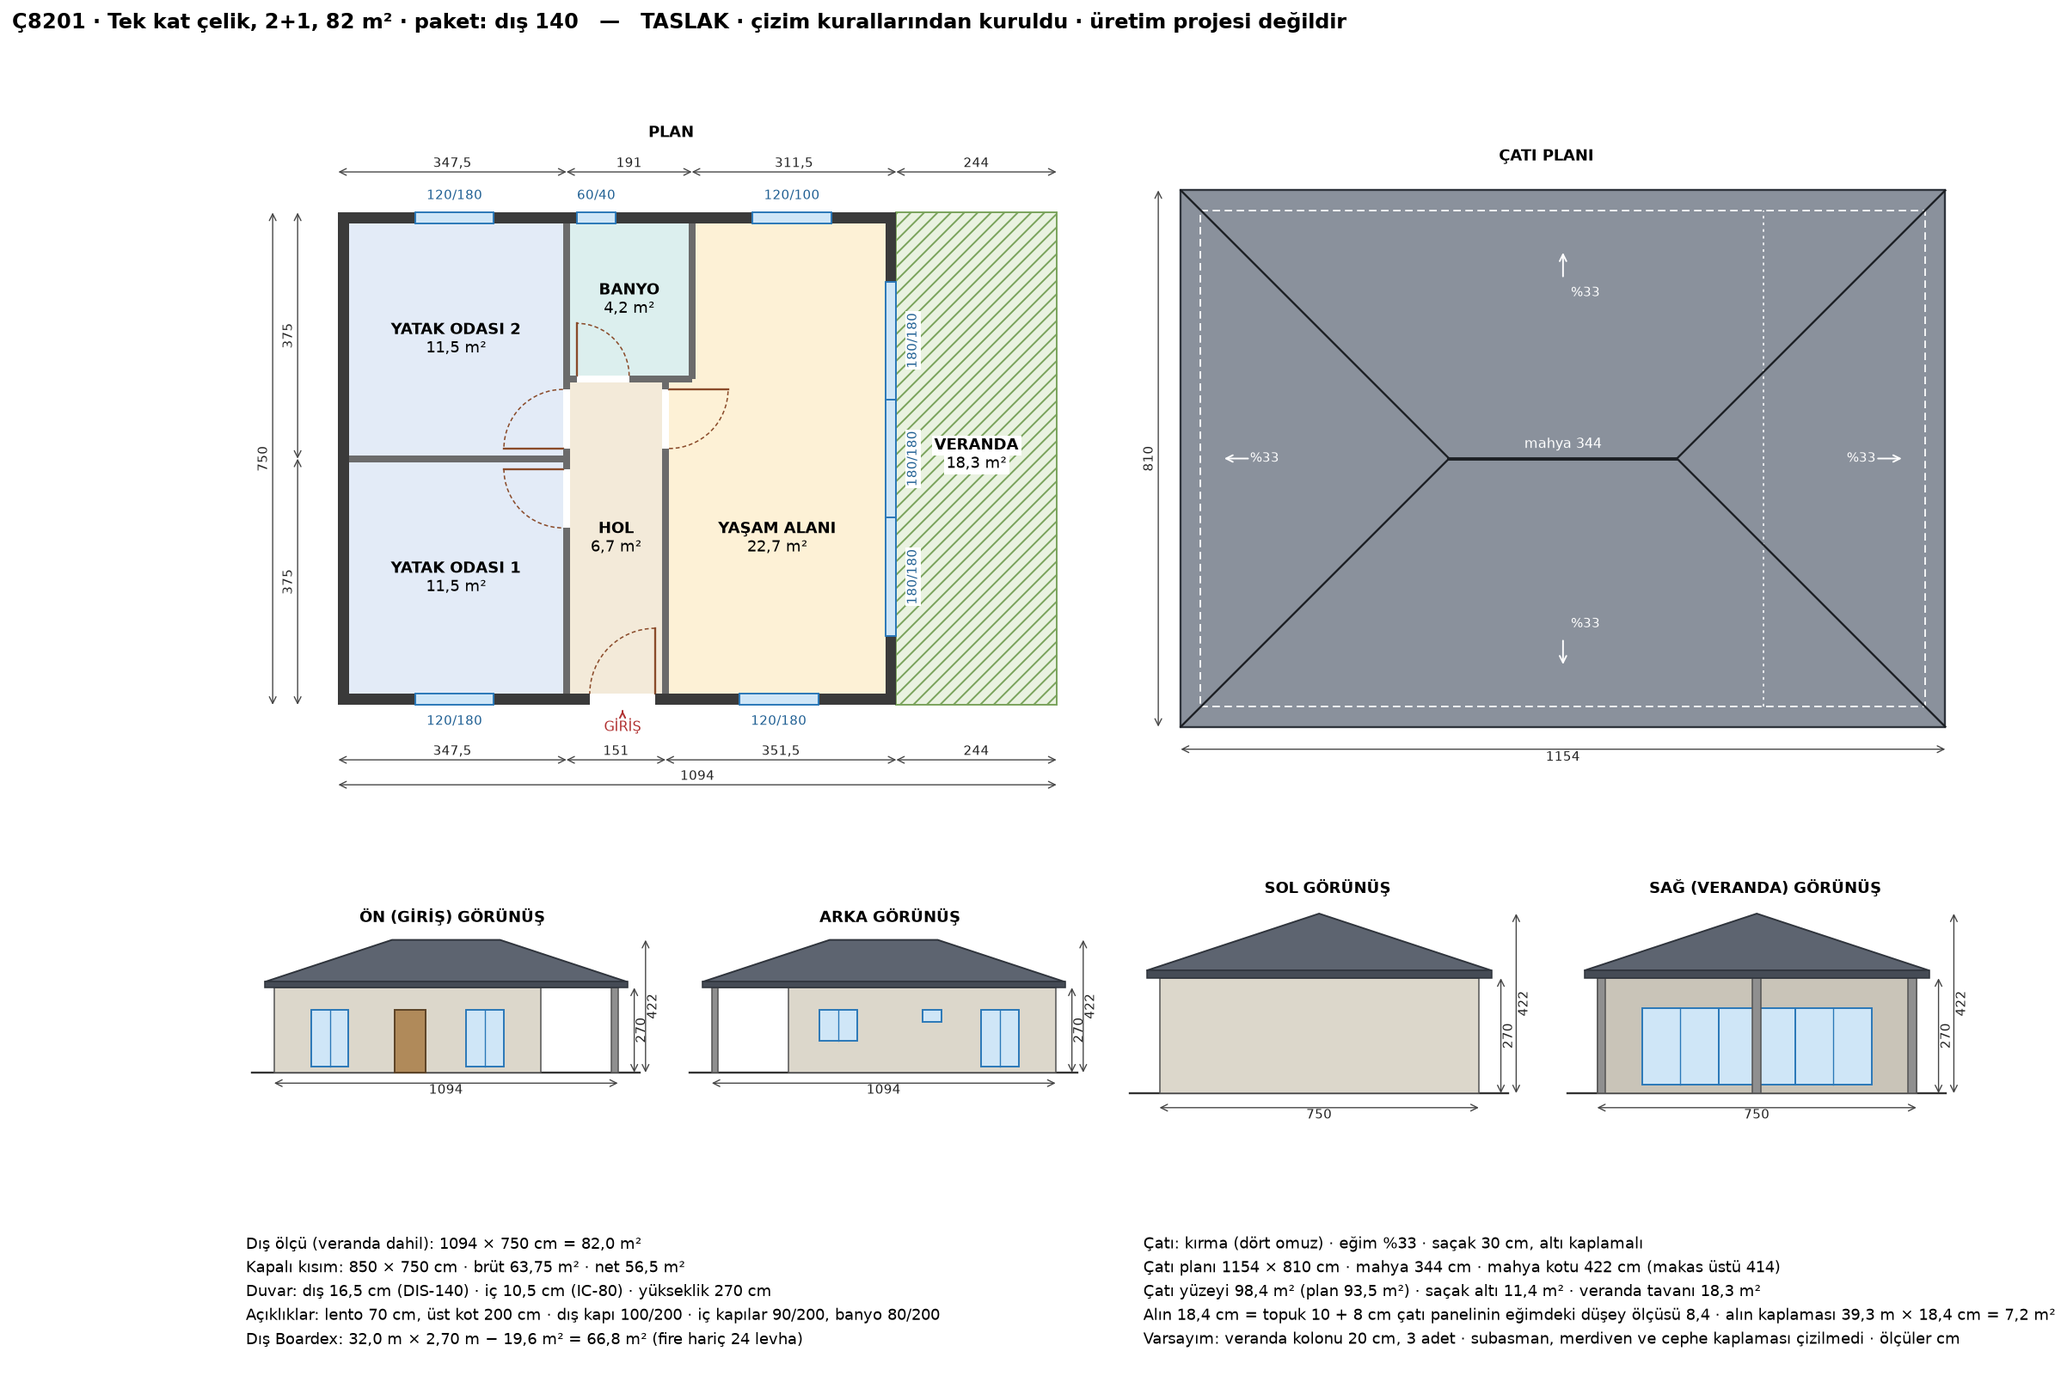
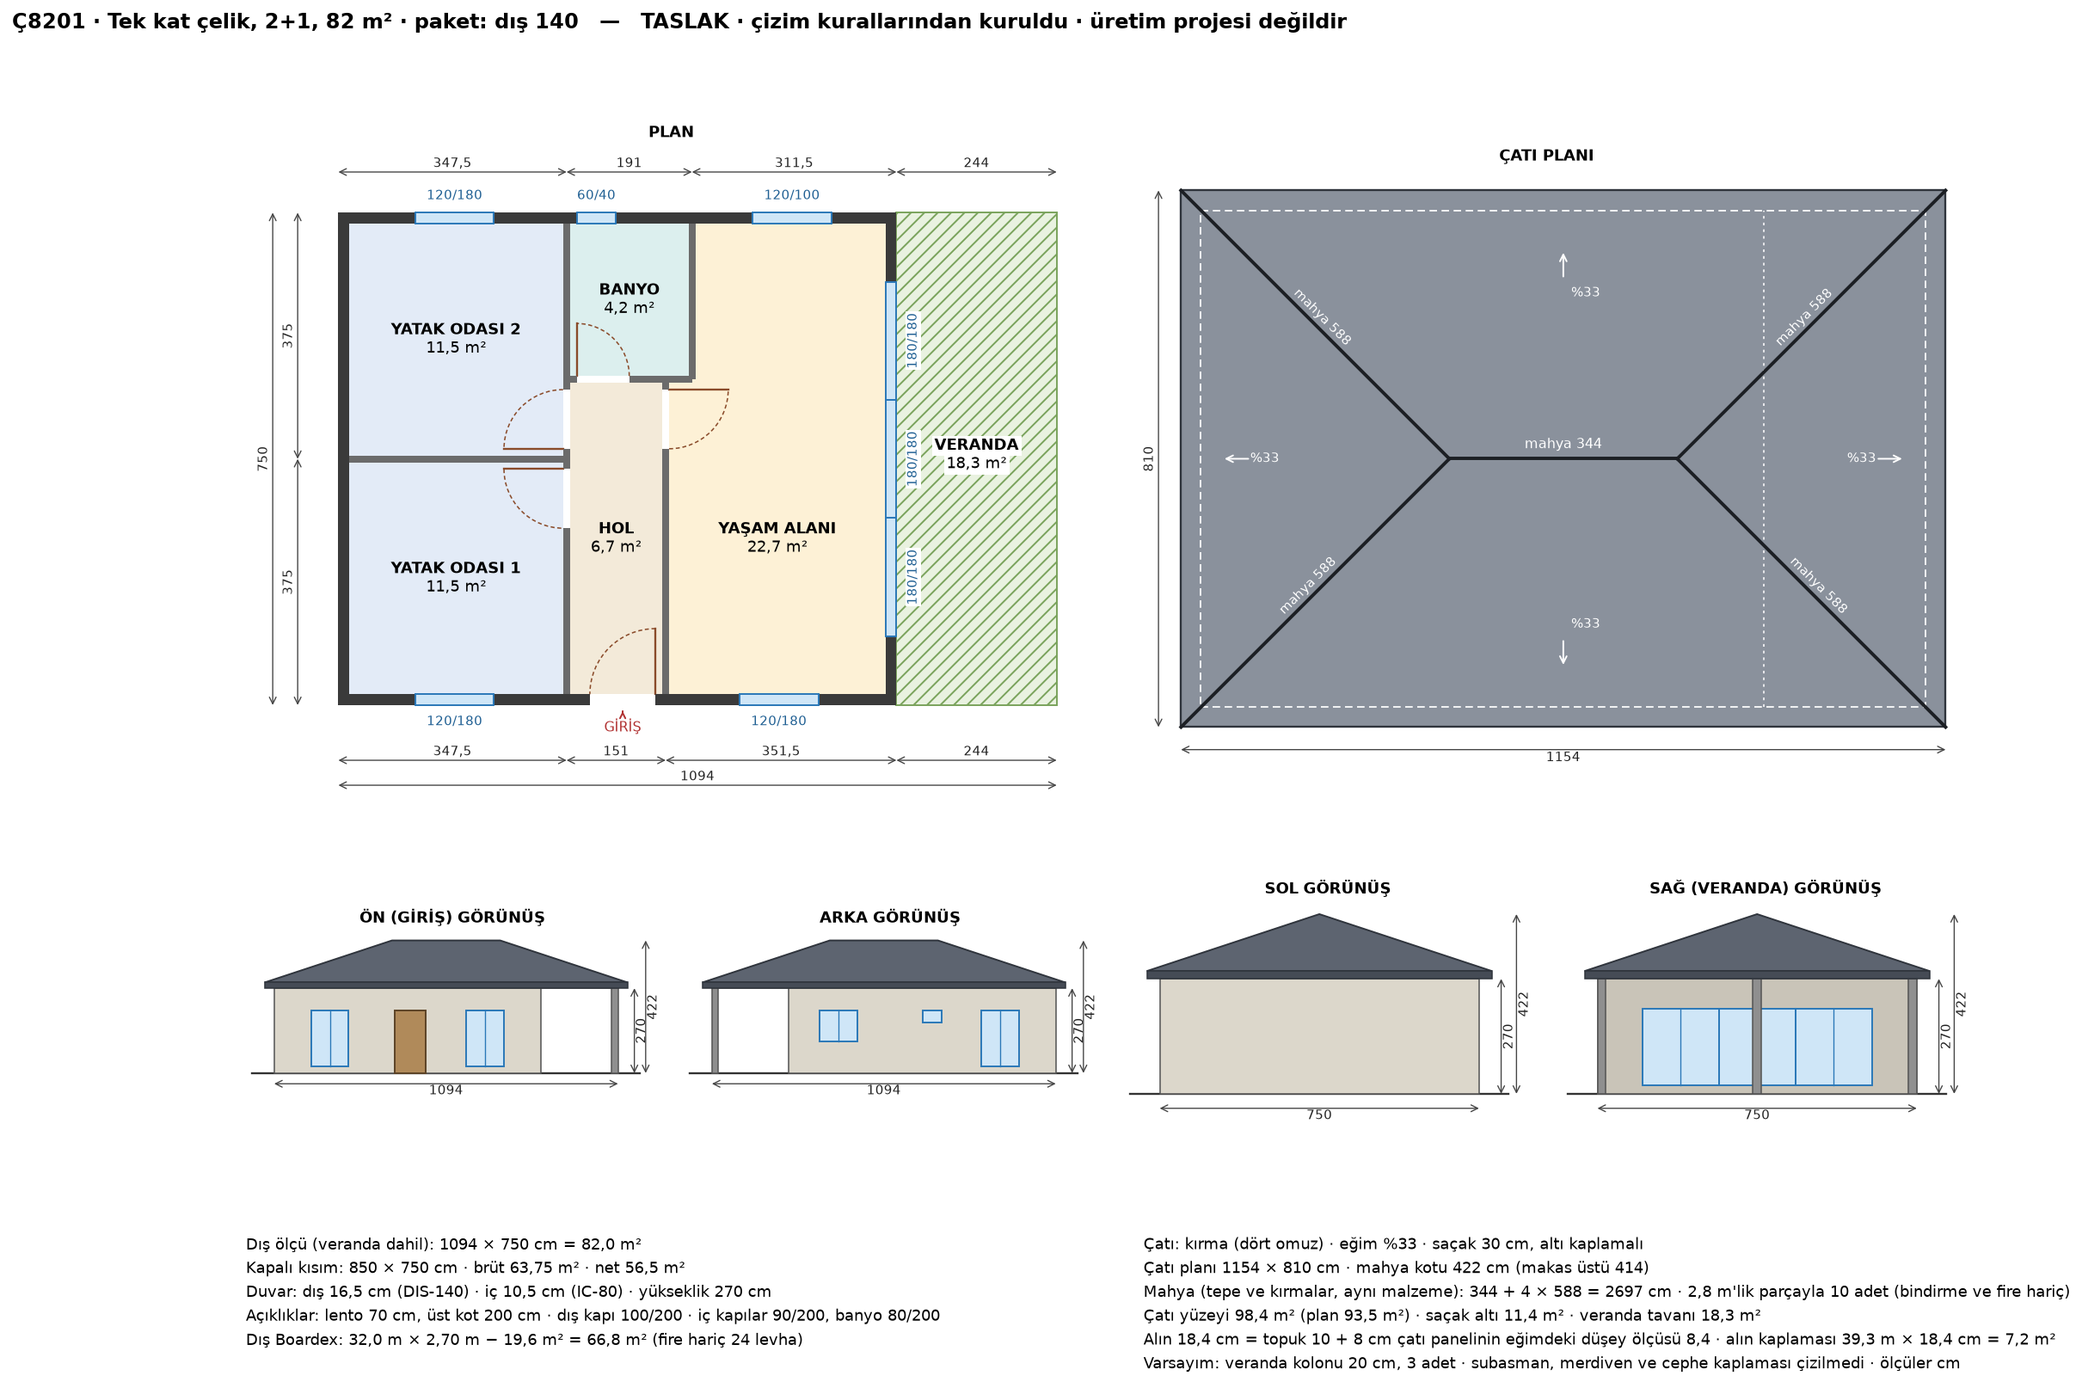
İE-05: mahya malzemesi kırmalara da konur (Lokman, 3 Ekim 11:57); Ç8201 mahya hattı 2697 cm
- gorunus.py: kırma boyu ve mahya hattı hesabı; çatı planında kırmalar mahya olarak çizilir ve etiketlenir.
- Ç8201: tepe 344 + 4 kırma x 588 = 2697 cm; 2,8 m'lik parçayla bindirme ve fire hariç 10 adet
  (parça boyu 90 m2 projenin yükleme listesinden). Baz ve dış 140 paftaları yenilendi.
- cati.md, modeller/C8201.md, deneme README ve DURUM güncellendi. Canlıya ve canlı koda dokunulmadı.

Claude-Session: https://claude.ai/code/session_01HPSBoQGTn4Q4gkz3xSnyCS

diff --git a/deneme/2026-10-02_celik/gorunus.py b/deneme/2026-10-02_celik/gorunus.py
@@ -8,6 +8,7 @@ mahya ortada kalan kısımdır; saçak 30 cm, altı kaplamalı. Lento her zaman 
 Topuk 10 cm: makasın üst yüzü saçak ucunda duvar üst kotundan 10 cm yukarıdadır; saçak altı duvar üst kotundadır
 (üç çelik SKP modelinden ölçüldü, `docs/sartname/skp_olcumleri.md`; Lokman 2 Ekim 22:05'te teyit etti).
 Makasların üzerine 8 cm çatı paneli gelir; alın (saçak kaplaması) = topuk + panelin eğimdeki düşey ölçüsü (Lokman, 22:05).
+Mahya malzemesi tepe mahyasına ve dört kırma hattına konur; aynı malzeme (Lokman, 3 Ekim 11:57).
 Veranda kolonunun kenarı (20 cm) varsayımdır.
 
 Kullanım:
@@ -60,6 +61,11 @@ def cati_hesapla(tanim: dict) -> dict:
     z_mahya = z_makas_mahya + panel_dusey                        # çatı üst yüzü, mahyada
     alin = z_sacak - h                                           # alın (saçak kaplaması) yüksekliği = topuk + panelin düşey ölçüsü
     cevre = 2 * (px + py)                                        # saçak ucu çevresi
+    # Mahya malzemesi tepeye ve dört kırma hattına konur (Lokman, 3 Ekim 11:57). Kırma: saçak köşesinden mahya ucuna.
+    kirma_plan = (kisa / 2) * math.sqrt(2)                       # plandaki boy (45°)
+    kirma = math.hypot(kirma_plan, (kisa / 2) * e)               # eğimli gerçek boy
+    mahya_hatti = (uzun - kisa) + 4 * kirma
+    parca = c.get("mahya_parca_boyu")
     plan_m2 = px * py / 1e4
     return {
         "ayak_izi": (L, H), "plan": (px, py), "mahya_uzunlugu": uzun - kisa, "mahya_yonu": "x" if px >= py else "y",
@@ -68,6 +74,8 @@ def cati_hesapla(tanim: dict) -> dict:
         "sacak": s, "egim": e, "z_sacak_alti": h,
         "z_makas_sacak": z_makas_sacak, "z_makas_mahya": z_makas_mahya, "panel_kalinligi": panel, "panel_dusey": panel_dusey,
         "alin_yuksekligi": alin, "alin_gonye_kesimde": topuk + panel / kok, "alin_cevre_m": cevre / 100, "alin_m2": cevre * alin / 1e4,
+        "kirma_adedi": 4, "kirma_plan_boyu": kirma_plan, "kirma_boyu": kirma, "mahya_hatti_toplam": mahya_hatti,
+        "mahya_parca_boyu": parca, "mahya_parca_adedi_bindirmesiz": math.ceil(mahya_hatti / parca - 1e-9) if parca else None,
     }
 
 
@@ -163,7 +171,14 @@ def cati_plani_eksen(ax, tanim: dict, c: dict):
     ax.plot([m1[0], m2[0]], [m1[1], m2[1]], color="#1c1f24", lw=2.0, zorder=3)
     for kx, ky in kose:
         hedef = m1 if (kx < L / 2 if c["mahya_yonu"] == "x" else ky < H / 2) else m2
-        ax.plot([kx, hedef[0]], [ky, hedef[1]], color="#1c1f24", lw=1.2, zorder=3)
+        ax.plot([kx, hedef[0]], [ky, hedef[1]], color="#1c1f24", lw=2.0, zorder=3)   # kırma: mahya ile aynı malzeme
+        aci = math.degrees(math.atan2(hedef[1] - ky, hedef[0] - kx))
+        if aci > 90 or aci < -90:
+            aci += 180
+        ox, oy = (kx + hedef[0]) / 2, (ky + hedef[1]) / 2
+        nx, ny = -math.sin(math.radians(aci)), math.cos(math.radians(aci))
+        ax.text(ox + nx * 15, oy + ny * 15, f"mahya {tr(c['kirma_boyu'], 0)}", ha="center", va="center", fontsize=7.5, color="white",
+                rotation=aci, rotation_mode="anchor", zorder=4)
     ax.add_patch(Rectangle((0, 0), L, H, fill=False, ec="white", lw=0.9, ls=(0, (5, 3)), zorder=2))   # duvar dış yüzü
     ax.plot([W, W], [0, H], color="white", lw=0.8, ls=(0, (2, 3)), zorder=2)
     ax.text((m1[0] + m2[0]) / 2, m1[1] + 16, f"mahya {tr(c['mahya_uzunlugu']).replace(',0', '')}", ha="center", fontsize=8, color="white", zorder=4)
@@ -202,7 +217,9 @@ def pafta(tanim: dict, s: dict, c: dict, cikti: Path):
     ]
     sag = [
         f"Çatı: kırma (dört omuz) · eğim %{ct['egim_yuzde']} · saçak {ct['sacak']} cm, altı kaplamalı",
-        f"Çatı planı {tr(c['plan'][0]).replace(',0', '')} × {tr(c['plan'][1]).replace(',0', '')} cm · mahya {tr(c['mahya_uzunlugu']).replace(',0', '')} cm · mahya kotu {tr(c['z_mahya'], 0)} cm (makas üstü {tr(c['z_makas_mahya'], 0)})",
+        f"Çatı planı {tr(c['plan'][0]).replace(',0', '')} × {tr(c['plan'][1]).replace(',0', '')} cm · mahya kotu {tr(c['z_mahya'], 0)} cm (makas üstü {tr(c['z_makas_mahya'], 0)})",
+        f"Mahya (tepe ve kırmalar, aynı malzeme): {tr(c['mahya_uzunlugu']).replace(',0', '')} + {c['kirma_adedi']} × {tr(c['kirma_boyu'], 0)} = {tr(c['mahya_hatti_toplam'], 0)} cm"
+        + (f" · {tr(c['mahya_parca_boyu'] / 100)} m'lik parçayla {c['mahya_parca_adedi_bindirmesiz']} adet (bindirme ve fire hariç)" if c["mahya_parca_boyu"] else ""),
         f"Çatı yüzeyi {tr(c['yuzey_m2'])} m² (plan {tr(c['plan_m2'])} m²) · saçak altı {tr(c['sacak_alti_m2'])} m² · veranda tavanı {tr(c['veranda_tavani_m2'])} m²",
         f"Alın {tr(c['alin_yuksekligi'])} cm = topuk {ct.get('topuk', 0)} + {ct.get('panel_kalinligi', 0)} cm çatı panelinin eğimdeki düşey ölçüsü {tr(c['panel_dusey'])} · alın kaplaması {tr(c['alin_cevre_m'])} m × {tr(c['alin_yuksekligi'])} cm = {tr(c['alin_m2'])} m²",
         f"Varsayım: veranda kolonu {v.get('kolon', {}).get('kenar', '—')} cm, {v.get('kolon', {}).get('adet', '—')} adet · subasman, merdiven ve cephe kaplaması çizilmedi · ölçüler cm",
@@ -233,6 +250,8 @@ def main() -> int:
     (a.cikti / f"{kod}_cati.json").write_text(json.dumps(rapor, ensure_ascii=False, indent=1) + "\n", encoding="utf-8")
     print(f"{tanim['kod']} çatı: plan {c['plan'][0]} × {c['plan'][1]} cm · mahya {c['mahya_uzunlugu']} cm ({c['mahya_yonu']} yönünde) · "
           f"saçak ucu {tr(c['z_sacak'])} (makas üstü {tr(c['z_makas_sacak'])}) · mahya kotu {tr(c['z_mahya'])} (makas üstü {tr(c['z_makas_mahya'])}) cm")
+    print(f"  mahya hattı: tepe {tr(c['mahya_uzunlugu'], 1)} + {c['kirma_adedi']} kırma × {tr(c['kirma_boyu'], 2)} (planda {tr(c['kirma_plan_boyu'], 2)}) = {tr(c['mahya_hatti_toplam'], 1)} cm"
+          + (f" · {c['mahya_parca_boyu']} cm'lik parçayla {c['mahya_parca_adedi_bindirmesiz']} adet (bindirme ve fire hariç)" if c["mahya_parca_boyu"] else ""))
     print(f"  alın {tr(c['alin_yuksekligi'], 2)} cm (panel ucu gönyesinde kesilirse {tr(c['alin_gonye_kesimde'], 2)}) · alın kaplaması {tr(c['alin_cevre_m'], 2)} m × {tr(c['alin_yuksekligi'], 2)} cm = {tr(c['alin_m2'], 2)} m²")
     print(f"  yüzey {tr(c['yuzey_m2'], 2)} m² (plan {tr(c['plan_m2'], 2)}) · saçak altı {tr(c['sacak_alti_m2'], 2)} m² · veranda tavanı {tr(c['veranda_tavani_m2'], 2)} m²")
     print("  açıklık kotları:", sorted({(k["tur"], k["en"], k["alt"], k["ust"]) for k in s["aciklik_kotlari"]}))

diff --git a/DURUM.md b/DURUM.md
@@ -6,7 +6,7 @@
 
 **2 Ekim 2026 22:00 eki (dal `ie-05`):** Üç çelik projenin SketchUp modeli (62, 81 ve 90 m²; SketchUp 2024) okundu ve ölçüldü. Yol: Lokman'ın Mac'indeki Blender 5.2.1'de SKP içe aktarıcı yok; dosyalar bulutta açık kaynak `openskp 1.3.0` ile çözüldü, Mac'e bir şey kurulmadı. Betikler ve adsız ölçü özetleri `deneme/2026-10-02_skp/`, bulgular `docs/sartname/skp_olcumleri.md`; GLB, yüz listesi ve görünüşler Lokman'ın Mac'inde `28_SKP_Aktarim/` (depoda değil). Doğrulama: 90 m² modelde okunan ölçüler aynı projenin montaj paftasındaki ölçü yazılarıyla aynı. Modellerin gösterdikleri: duvar 270, saçak 30, pencere üst kotu 200 (lento 70) kurallarla tutuyor; topuk saçak ucunda 10 cm (Ç8201'in makas üstü mahya kotu 404'ten 414'e düzeltildi; Lokman 22:05'te topuğu teyit etti ve makasların üzerine 8 cm çatı paneli geldiğini söyledi: alın 18,4 cm, çatı üst yüzünde mahya 422); iç kapı başlığı 214, dış kapı 210; 62 m² projede eğim %30; dikme 61 ve 62,5; makas aralığı 125; profil başlığı 45 ve 54 mm. Bunlar Lokman'ın teyidini bekliyor. Sınır: 2019 ve öncesi biçimdeki SKP'ler okunamıyor (75 tekil dosyanın 27'si; katalog modellerinin çoğu). Canlıya ve canlı koda dokunulmadı; P6001 çıktıları etkilenmedi.
 
-**3 Ekim 2026 12:10 eki (dal `ie-05`):** Ç8201, dış duvar karkası 140 mm seçeneğiyle yeniden kuruldu (Lokman, 3 Ekim 11:49: yalnız dış duvarlar). Seçenek bir veri dosyası (`deneme/2026-10-02_celik/secenekler/dis_karkas_140.json`); model tanımı değişmedi. Sonuç: dış duvar 16,5 cm, dış ölçü aynı, kapalı net 58,4'ten 56,5 m²'ye iniyor, Boardex ve çatı aynı (`docs/sartname/modeller/C8201.md`). Baz paketin çıktıları değişmedi. Bayi cümlesinden ("dışlar 140'lık olsun") ya da WhatsApp formundan bu seçeneğe eşleme canlıda yok; İE-05 taslağına ayrı iş olarak yazıldı. Canlıya ve canlı koda dokunulmadı.
+**3 Ekim 2026 12:10 eki (dal `ie-05`):** Ç8201, dış duvar karkası 140 mm seçeneğiyle yeniden kuruldu (Lokman, 3 Ekim 11:49: yalnız dış duvarlar). Seçenek bir veri dosyası (`deneme/2026-10-02_celik/secenekler/dis_karkas_140.json`); model tanımı değişmedi. Sonuç: dış duvar 16,5 cm, dış ölçü aynı, kapalı net 58,4'ten 56,5 m²'ye iniyor, Boardex ve çatı aynı (`docs/sartname/modeller/C8201.md`). Baz paketin çıktıları değişmedi. Bayi cümlesinden ("dışlar 140'lık olsun") ya da WhatsApp formundan bu seçeneğe eşleme canlıda yok; İE-05 taslağına ayrı iş olarak yazıldı. 11:57: mahya malzemesi kırmalara da konur (Lokman); Ç8201'de mahya hattı 344 + 4 × 588 = 2697 cm, paftada işlendi (`docs/sartname/cati.md`). Canlıya ve canlı koda dokunulmadı.
 
 **Oturum devri:** `docs/devir/2026-09-30_Aksam_Devri.md` (30.09 akşamı, Kapı M sonrası; sıra ve bakım listesi) ve `docs/devir/2026-09-30_Oturum_Devri.md` (30.09 01:10; kurallar, K-A kararları, Astra ölçütleri). 28–30 Eylül penceresi kapandı. Yeni pencere bu ikisiyle başlar: kurallar, yapılanlar, bekleyen kararlar, sıradaki işler, Astra'ya çizim işi için ölçütler.
 

diff --git a/docs/sartname/cati.md b/docs/sartname/cati.md
@@ -11,6 +11,7 @@ Kaynak: Lokman'ın anlattıkları (2 Ekim 2026). Madde sonundaki saat, söylendi
 - Çelik karkas makaslar %33 eğim ve 10 cm topukla çizilir. (22:05)
 - Makasların üzerine 8 cm çatı paneli gelir. (22:05)
 - Saçak kaplaması (alın): 10 cm topuk + üzerine konan panelin eğimdeki ölçüsü; "kaç cm oluyorsa" o kadar kaplanır. (22:05)
+- Tepeye konan mahya çatının kırmalarına da konur; aynı malzeme kullanılır. (3 Ekim 11:57)
 
 ## Modellerden ölçülenler (2 Ekim 21:40; ayrıntı `skp_olcumleri.md`)
 
@@ -31,6 +32,8 @@ Kaynak: Lokman'ın anlattıkları (2 Ekim 2026). Madde sonundaki saat, söylendi
 - Panelin düşey ölçüsü = 8 × √(1 + 0,33²) = 8,42 cm. Alın yüksekliği = 10 + 8,42 = 18,4 cm (panelin ucu şakülünde kesilirse; gönyesinde kesilirse 10 + 8 ÷ 1,053 = 17,6 cm).
 - Çatı üst yüzü, makas üst yüzünden 8,42 cm yukarıdadır: saçak ucunda 288,4; mahyada makas kotu + 8,42.
 - Alın kaplaması = saçak ucu çevresi × alın yüksekliği.
+- Kırma boyu (saçak köşesinden mahya ucuna, eğimli gerçek boy) = √(2 × y² + (y × eğim)²); y = saçak dahil kısa kenarın yarısı. %33'te kırma boyu = y × 1,452.
+- Mahya hattı = tepe mahyası + 4 × kırma boyu. Parça adedi = mahya hattı ÷ parça boyu, yukarı yuvarlanır; bindirme ve fire ayrıca eklenir.
 - Düzeltme (2 Ekim 21:50): ilk hesapta topuk duvar hizasında varsayılmış, saçak ucu 270 kotuna indirilmişti. Modellere göre saçak ucu 280'dir; mahya kotu 10 cm yükseldi.
 
 ## Ç8201'e uygulama
@@ -41,11 +44,14 @@ Katalog görsellerine göre tek bir kırma çatı, kapalı kısmı ve verandayı
 - Mahya 344 cm, uzun kenar boyunca, ortada. Makas üstünde mahya kotu 414 cm (270 + 10 + 405 × 0,33), saçak ucu 280; saçak altı 270.
 - 8 cm çatı paneliyle çatı üst yüzü: saçak ucunda 288,4, mahyada 422 cm.
 - Alın 18,4 cm; alın kaplaması 39,28 m × 18,4 cm = 7,2 m².
+- Mahya malzemesi: tepe 344 + 4 kırma × 588 = 2697 cm (27,0 m). 2,8 m'lik parçayla, bindirme ve fire hariç 10 adet. Parça boyu 90 m² projenin yükleme listesinden alındı (L 2800).
 - Çatı yüzeyi 98,4 m² (plan 93,5 m²). Saçak altı 11,4 m²; veranda tavanı 18,3 m².
 - Çizim: `deneme/2026-10-02_celik/sonuc/C8201_pafta.png`.
 
 ## Açık sorular
 
+- Mahya parçasının boyu 2,8 m mi; bindirme payı kaç cm?
+- Yükleme listesindeki üç mahya kalemi (metal kiremit mahyası, OSB mahyası, özel geniş mahya) hangi hatlara konuyor?
 - 8 cm çatı paneli hangi katmanlardan oluşuyor (yükleme listesindeki aşık, OSB, şilte ve örtüyle ilişkisi)?
 - 62 m² projede eğim neden %30? "Eğim değişmez" kuralının istisnası var mı?
 - Makas aralığı 125 cm kural mı?

diff --git a/docs/sartname/modeller/C8201.md b/docs/sartname/modeller/C8201.md
@@ -45,7 +45,7 @@ Model, tanım dosyasından (`C8201.json`) ve duvar tiplerinden (`duvar_tipleri.j
 - Plan görseli: `deneme/2026-10-02_celik/sonuc/C8201_plan.png`.
 - Pafta (plan, çatı planı, dört görünüş): `deneme/2026-10-02_celik/sonuc/C8201_pafta.png`. Çatı: `../cati.md`.
 - Açıklık kotları lento 70 cm kuralıyla: üst kot 200; denizlik 120/180 ve 180/180'de 20, 120/100'de 100, 60/40'ta 160 cm. Kapılar 200 cm alındı; yükleme listelerindeki 210 ve 214 ile çelişiyor. Üç çelik SKP modelinde de iç kapı başlığı 214, dış kapı başlığı 210 (`../skp_olcumleri.md`); çizim Lokman'ın cevabına kadar değiştirilmedi.
-- Çatı (2 Ekim 21:50 ve 22:05 düzeltmeleriyle): makas üstü saçak ucunda 280, mahyada 414; 8 cm çatı paneliyle çatı üst yüzü saçak ucunda 288,4, mahyada 422 cm; saçak altı 270. Alın 18,4 cm; alın kaplaması 39,28 m × 18,4 cm = 7,2 m².
+- Çatı (2 Ekim 21:50 ve 22:05 düzeltmeleriyle): makas üstü saçak ucunda 280, mahyada 414; 8 cm çatı paneliyle çatı üst yüzü saçak ucunda 288,4, mahyada 422 cm; saçak altı 270. Alın 18,4 cm; alın kaplaması 39,28 m × 18,4 cm = 7,2 m². Mahya malzemesi tepeye ve dört kırmaya (3 Ekim 11:57): 344 + 4 × 588 = 2697 cm; 2,8 m'lik parçayla bindirme ve fire hariç 10 adet.
 
 ## Seçenek: dış duvar karkası 140 mm (3 Ekim 2026)
 

diff --git a/deneme/2026-10-02_celik/README.md b/deneme/2026-10-02_celik/README.md
@@ -31,7 +31,8 @@ python gorunus.py C8201.json --secenek secenekler/dis_karkas_140.json
 - Dış Boardex: 32,0 m × 2,70 m − 19,6 m² = 66,8 m²; fire hariç 24 levha. Yükleme listesiyle karşılaştırılmadı.
 - Çatı (kırma, %33, saçak 30): plan 1154 × 810, mahya 344 cm, yüzey 98,4 m². Makas üstü: saçak ucunda 280, mahyada 414 cm. 8 cm çatı paneliyle çatı üst yüzü: saçak ucunda 288,4, mahyada 422 cm.
 - Alın (saçak kaplaması) 18,4 cm = topuk 10 + panelin eğimdeki düşey ölçüsü 8,4; alın kaplaması 39,28 m × 18,4 cm = 7,2 m².
-- Düzeltmeler: 21:50 topuk saçak ucunda (SKP ölçümü; önceki mahya kotu 404'tü); 22:05 çatı paneli ve alın (Lokman).
+- Mahya malzemesi tepeye ve dört kırmaya konur: 344 + 4 × 588 = 2697 cm; 2,8 m'lik parçayla bindirme ve fire hariç 10 adet.
+- Düzeltmeler: 21:50 topuk saçak ucunda (SKP ölçümü; önceki mahya kotu 404'tü); 22:05 çatı paneli ve alın (Lokman); 3 Ekim 11:57 kırmalarda mahya (Lokman).
 - Açıklık üst kotu 200 cm (lento 70).
 - Dış 140 mm seçeneği (3 Ekim): dış duvar 16,5 cm, iç 10,5 cm; dış ölçü aynı; kapalı net 58,4 → 56,5 m²; Boardex ve çatı aynı. Karşılaştırma tablosu: `docs/sartname/modeller/C8201.md`.
 
